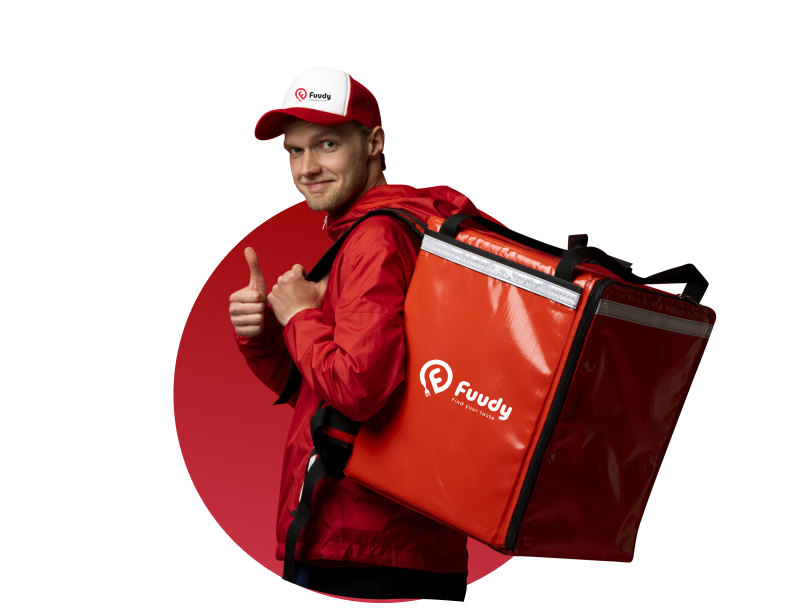
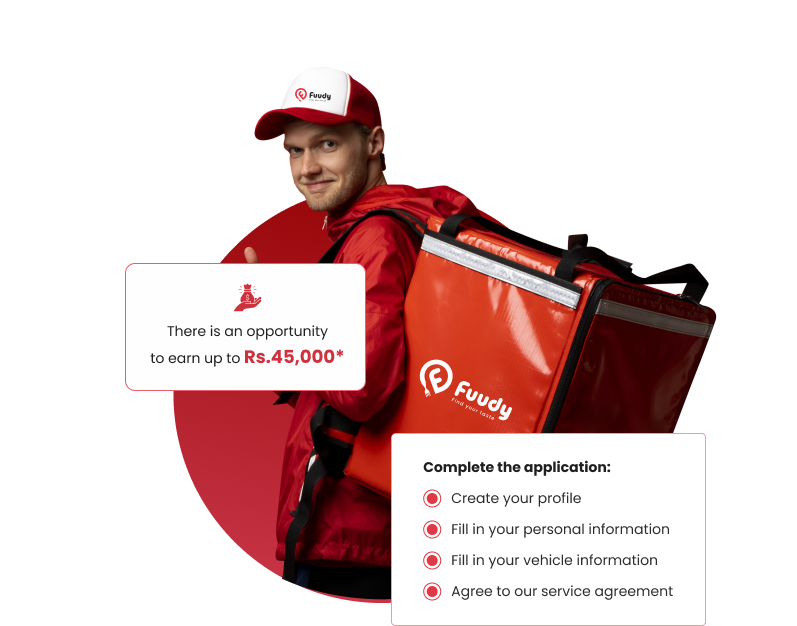
hero 70%

Changed region(s): [[0.1506, 0.125, 0.9034, 1.0], [0.2108, 0.6875, 0.2409, 0.7812], [0.2409, 0.7812, 0.271, 0.8438]]

diff --git a/hero.html b/hero.html
@@ -55,6 +55,10 @@
             left: -50vw;
         }
 
+        .white-placeholder::placeholder {
+            color: white;
+        }
+
         .fs-60 {
             font-size: 60px;
         }
@@ -118,6 +122,71 @@
             </div>
         </div>
     </nav>
+
+    <section id="hero" class="my-lg-5 d-flex flex-column-reverse flex-lg-row align-items-lg-center justify-content-between">
+        <div class="align-self-start mt-lg-5 pt-lg-4">
+            <h1 class="fw-bold fs-60">
+                <span class="text-highlight">Sign up</span> today
+                <br>& Become a Member 
+                <br>of <span class="text-highlight">Fuudy Family</span>
+            </h1>
+            <p class="mt-3">Our commitment is to provide you with a menu that not only satisfies your
+                <br>taste buds but also contributes to your overall well-being.</p>
+            <div class="mt-3">
+                <a href="#" class="btn btn-primary bg-dark px-3 py-2 px-lg-5 py-lg-3" style="border: none;">
+                    <span>DOWNLOAD NOW</span>
+                </a>
+            </div>
+        </div>
+        <div>
+            <img src="./assets/hero-image.png" alt="hero-image.png" class="w-100">
+        </div>
+    </section>
+
+    <section id="profile" class="my-5 rounded" style="background-color: #e23744;">
+        <form class="d-flex flex-column p-5">
+            <div class="mb-3">
+                <label for="outlet" class="form-label text-white">Outlet Name <span class="text-white">*</span></label>
+                <input type="text" placeholder="Type your outlet name here" class="form-control px-3 py-2 text-white white-placeholder"
+                    id="outlet" aria-describedby="outlet" style="background: none;">
+            </div>
+            <div class="row">
+                <div class="mb-3 col-12 col-lg-6">
+                    <label for="firstName" class="form-label text-white">First Name <span class="text-white">*</span></label>
+                    <input type="text" placeholder="Type your first name here"
+                        class="form-control px-3 py-2 text-white white-placeholder" id="firstName" aria-describedby="firstName"
+                        style="background: none;">
+                </div>
+                <div class="mb-3 col-12 col-lg-6">
+                    <label for="lastName" class="form-label text-white">Last Name <span class="text-white">*</span></label>
+                    <input type="text" placeholder="Type your last name here" class="form-control px-3 py-2 text-white white-placeholder"
+                        id="lastName" aria-describedby="lastName" style="background: none;">
+                </div>
+            </div>
+            <div class="row">
+                <div class="mb-3 col-12 col-lg-6">
+                    <label for="email" class="form-label text-white">Email Address <span class="text-white">*</span></label>
+                    <input type="email" placeholder="Type your email ID here" class="form-control px-3 py-2 text-white white-placeholder"
+                        id="email" aria-describedby="emailHelp" style="background: none;">
+                </div>
+                <div class="mb-3 col-12 col-lg-6">
+                    <label for="phone" class="form-label text-white">Phone no <span class="text-white">*</span></label>
+                    <input type="text" placeholder="Type your phone here" class="form-control px-3 py-2 text-white white-placeholder"
+                        id="phone" aria-describedby="emailHelp" style="background: none;">
+                </div>
+            </div>
+            <div class="mb-3">
+                <label for="business" class="form-label text-white">Business Address <span class="text-white">*</span></label>
+                <input type="text" placeholder="Type your business address here"
+                    class="form-control px-3 py-2 text-white white-placeholder" id="business" aria-describedby="business"
+                    style="background: none;">
+            </div>
+            <div class="text-center">
+                <button type="submit" class="btn btn-secondary py-2 mt-3 fw-bold px-72"
+                    style="width: fit-content;">Submit Message</button>
+            </div>
+        </form>
+    </section>
 
     <section id="store" class="mx-lg-5 my-lg-5 d-flex flex-column-reverse flex-lg-row justify-content-between align-items-center">
         <div>
